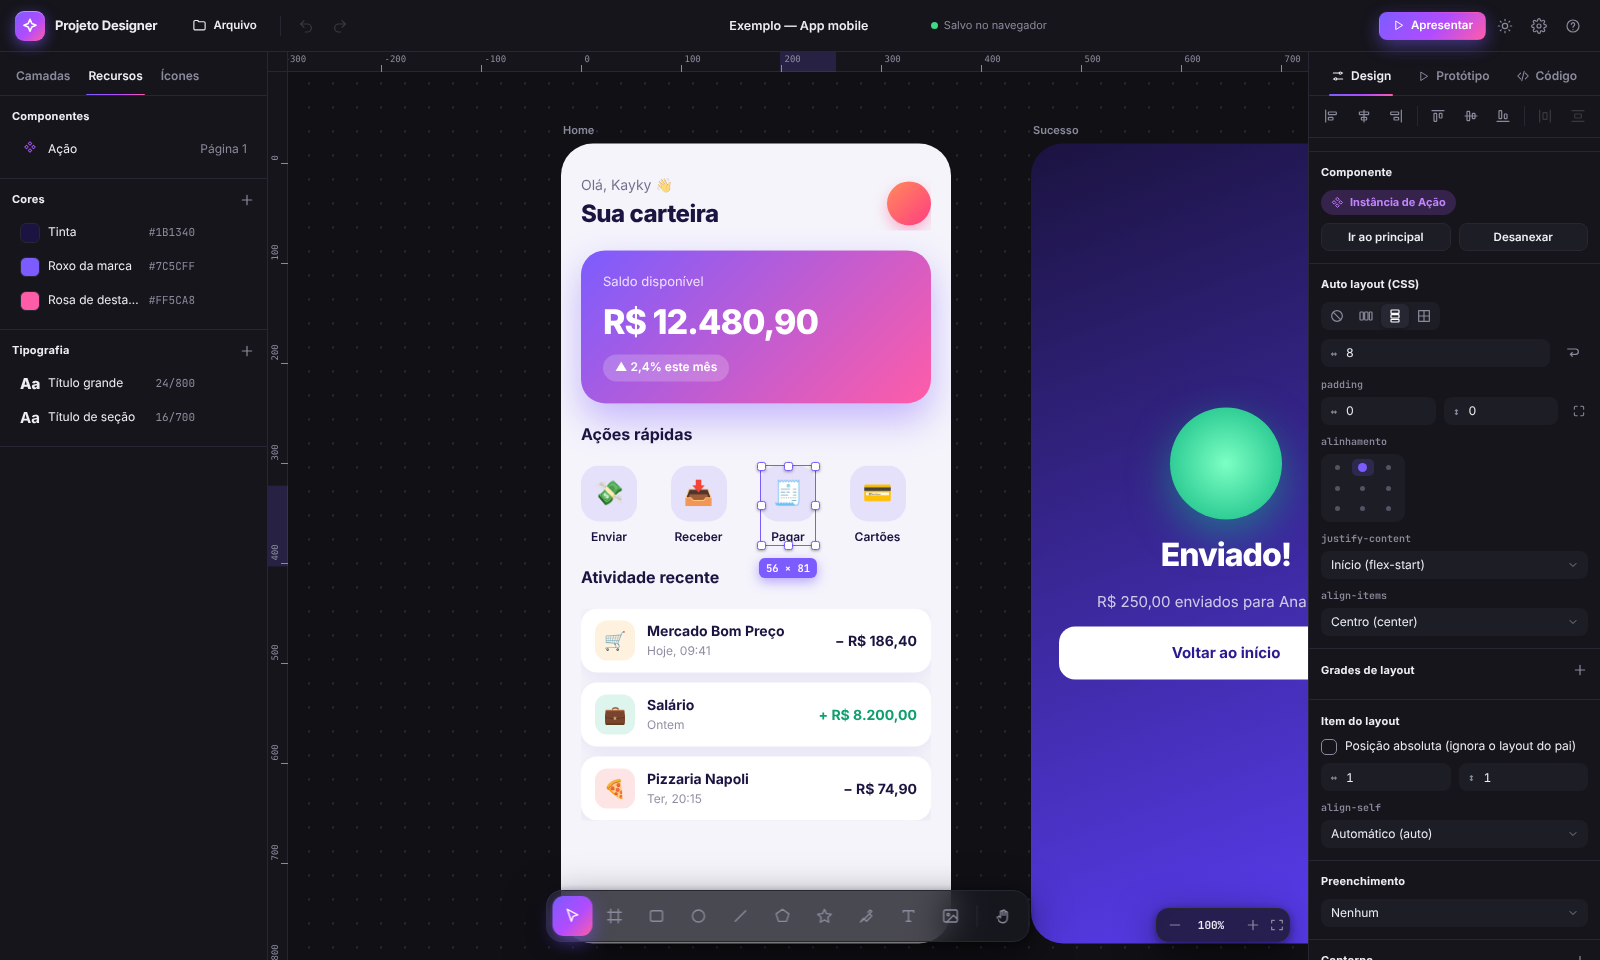
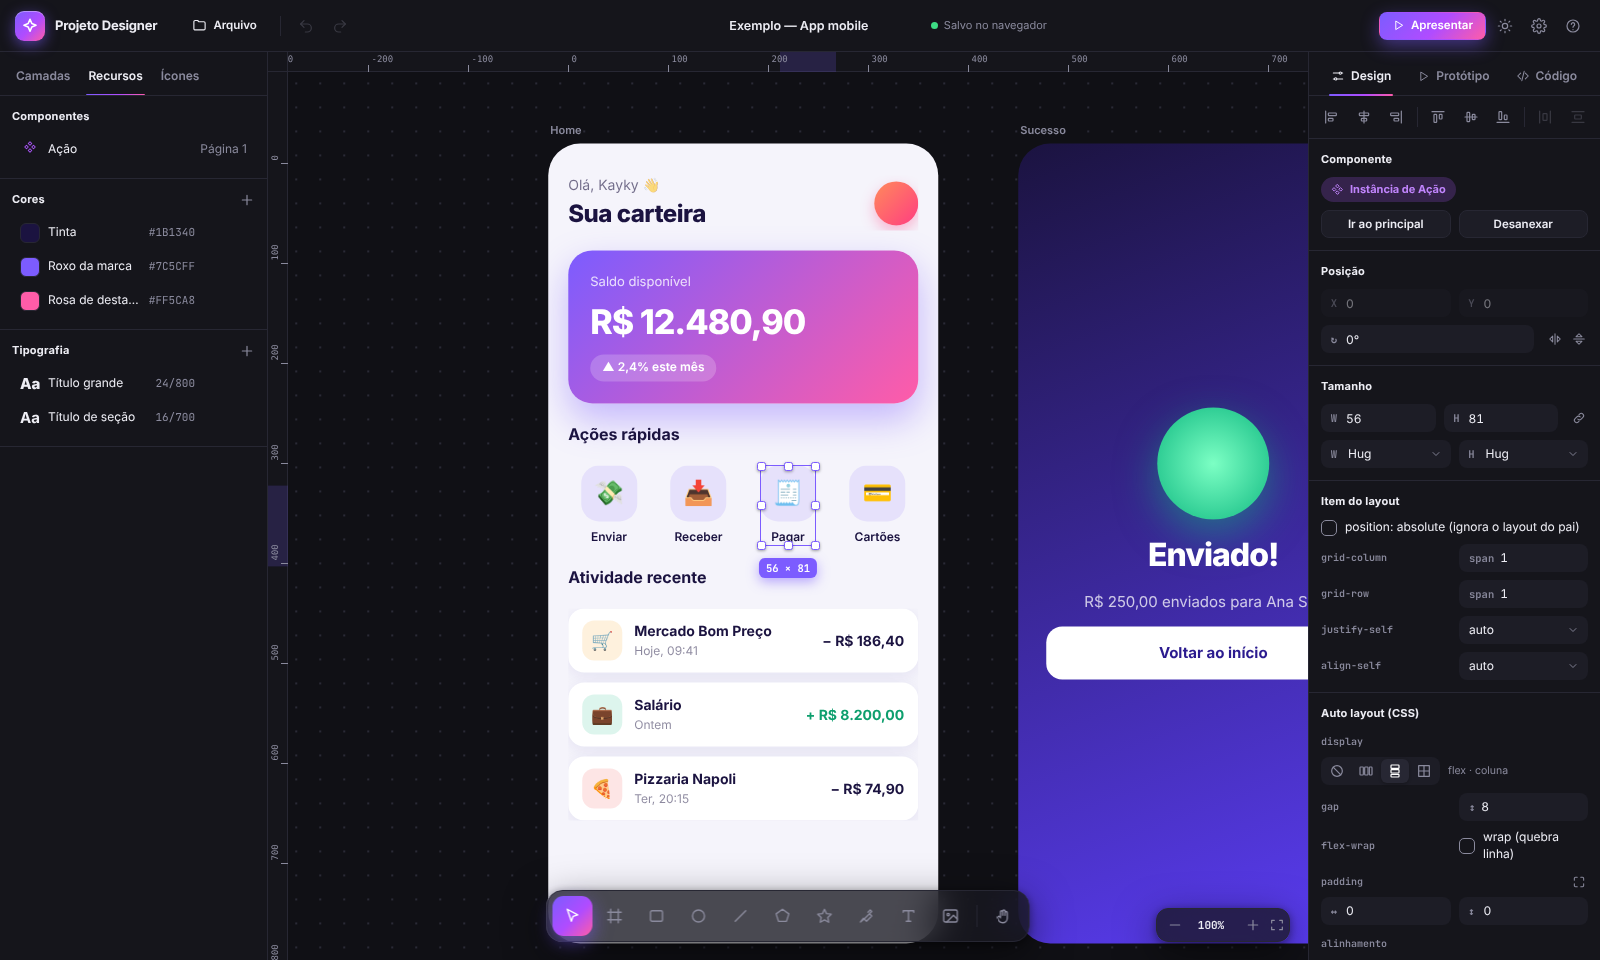
docs: versão 0.9.0, changelog e capturas do painel novo
Claude-Session: https://claude.ai/code/session_01FLfk2rgfTs5rnpqByjyvk3

diff --git a/README.md b/README.md
@@ -51,12 +51,12 @@ Ao abrir o app aparece a **página inicial**: o projeto em que você estava ("co
 ![Página inicial com os projetos](docs/screenshots/15-pagina-inicial.png)
 
 ### Auto layout é flexbox de verdade
-Selecione um frame, escolha o modo (linha, coluna, grid) e use a **matriz 3×3** para alinhar. Os campos são o CSS: `gap`, `padding`, `justify-content`, `align-items`. Camadas filhas escolhem **Fixo**, **Ajustar ao conteúdo** (`hug`) ou **Preencher** (`flex: 1`).
+Selecione um frame, escolha o modo (linha, coluna, grid) e use a **matriz 3×3** para alinhar. Cada controle mostra o nome da propriedade CSS que gera: `display`, `gap`, `flex-wrap`, `padding`, `justify-content`, `align-items` (com os valores de verdade, como `flex-start`, `space-between`, `stretch`). Camadas filhas escolhem **Fixo**, **Hug** (do tamanho do conteúdo) ou **Fill** (`flex: 1`) e podem ter `align-self` próprio.
 
 ![Auto layout com flexbox](docs/screenshots/02-auto-layout-flexbox.png)
 
 ### CSS Grid
-O mesmo painel liga `display: grid`: número de colunas e linhas, `column-gap`/`row-gap`, e cada item pode ocupar várias células (`grid-column: span N`).
+O mesmo painel liga `display: grid`: `grid-template-columns`/`rows` (quantas colunas e linhas), `column-gap`/`row-gap`, `justify-items`/`align-items` (onde cada item fica dentro da célula, incluindo `stretch`) e o botão **Itens preenchem as células**. Cada item pode ocupar várias células (`grid-column: span N`) e ter `justify-self`/`align-self` próprios.
 
 ![CSS Grid](docs/screenshots/03-css-grid.png)
 
@@ -100,7 +100,7 @@ Segure **Alt** e passe o mouse sobre outra camada para ver as **distâncias**. A
 ![Réguas, guias e grades de colunas](docs/screenshots/10-reguas-guias-grades.png)
 
 ### Tema claro/escuro e efeitos
-Gradientes, sombras múltiplas, `filter: blur`, **vidro fosco** (`backdrop-filter`), contorno tracejado, `mix-blend-mode`... tudo com os valores do CSS.
+Gradientes, sombras múltiplas, `filter: blur`, **vidro fosco** (`backdrop-filter`), contorno tracejado, **contorno só de um lado** (`border-bottom`, `border-left`…), `mix-blend-mode`... tudo com os valores do CSS.
 
 ![Tema claro](docs/screenshots/11-tema-claro.png)
 
@@ -180,7 +180,7 @@ Um roteiro de 5 minutos para sentir o app. (Dica: na **página inicial**, o card
 
 1. **Desenhe um frame** — aperte `F` e arraste no canvas. Frames são as "telas".
 2. **Desenhe dentro dele** — `R` retângulo, `E` elipse, `T` texto (clique e digite). O frame sob o cursor vira o pai da camada nova.
-3. **Mova e redimensione** — `V` volta à ferramenta Mover. Arraste a camada (linhas rosa mostram o *snap*), puxe as alças para redimensionar (`Shift` mantém a proporção, `Alt` redimensiona do centro). Passe o mouse fora de um canto para **rotacionar**.
+3. **Mova e redimensione** — `V` volta à ferramenta Mover. Arraste a camada (linhas rosa mostram o *snap*), puxe as alças para redimensionar (`Shift` mantém a proporção, `Alt` redimensiona do centro). Ao redimensionar, a borda **gruda** nas bordas do frame pai e dos vizinhos (linha rosa); `Ctrl` solta. Passe o mouse fora de um canto para **rotacionar**.
 4. **Ligue o auto layout** — selecione o frame e aperte `Shift+A`. O app deduz direção, `gap`, `padding` e alinhamento a partir de onde as camadas estavam (nada "pula" de lugar). Agora arraste uma camada: ela **reordena** dentro do flexbox.
    > **Dica — retângulo não tem "dentro".** Para uma sidebar, um card ou um botão que vai *conter* outras coisas, use um **Frame** (`F`). Se você já desenhou um retângulo de fundo com itens em cima, selecione tudo e aperte `Shift+A`: o retângulo de baixo **vira o frame** (mesma cor e cantos) e os itens entram nele. Um retângulo sozinho + `Shift+A` também vira frame. Um **grupo** + `Shift+A` vira frame.
 5. **Veja o CSS** — abra a aba **Código** no painel direito.
@@ -225,7 +225,7 @@ Um roteiro de 5 minutos para sentir o app. (Dica: na **página inicial**, o card
 | Recurso | Detalhe |
 |---|---|
 | **Flexbox** | `flex-direction` (linha/coluna), `gap`, `padding` (horizontal/vertical ou por lado), `justify-content`, `align-items`, `flex-wrap`. |
-| **CSS Grid** | Colunas, linhas, `column-gap`/`row-gap`; itens podem ocupar várias células (`grid-column: span N`). |
+| **CSS Grid** | Colunas, linhas, `column-gap`/`row-gap`, `justify-items`/`align-items` (com `stretch`); itens podem ocupar várias células (`grid-column: span N`) e ter `justify-self`/`align-self`. |
 | Matriz 3×3 | Define `justify` e `align` de uma vez; troca de papel entre linha e coluna. |
 | Tamanho do item | **Fixo**, **Ajustar ao conteúdo** (`hug`) ou **Preencher** (`flex: 1` / `align-self: stretch`). |
 | Posição absoluta | Marque "Posição absoluta" para um item **ignorar** o auto layout do pai (enfeites, selos). |

diff --git a/CHANGELOG.md b/CHANGELOG.md
@@ -6,6 +6,27 @@ Categorias: **Adicionado** · **Alterado** · **Corrigido** · **Desempenho** ·
 
 ---
 
+## [0.9.0] — 2026-10-07 — CSS de verdade no painel: grid, contorno por lado, snap ao redimensionar
+
+4º relato do teste real: "contorno só de um lado", "CSS Grid não exerce força", "opções de layout esquisitas", "não vejo a barreira do frame ao redimensionar", "painel meio feio".
+
+### Corrigido
+- **CSS Grid não alinhava os itens**: todo item de grid recebia `justify-self: start` / `align-self: start` fixos, e no CSS isso anula o `justify-items` / `align-items` do grid pai. Agora o item só escreve `*-self` quando você escolhe (ou quando o tamanho é "Fill" = `stretch`), então o alinhamento do grid vale de verdade.
+- **Trocar de flex para grid** com `space-between` (que não existe no grid) caía num valor inválido; agora vira `start`. E `stretch` (que não existe em `justify-content`) vira `flex-start` ao voltar para flex.
+
+### Adicionado
+- **Snap ao redimensionar**: a borda que você puxa gruda (até 6 px de tela) nas bordas do frame pai, dos vizinhos e das guias da régua, com a linha rosa. `Ctrl` ou `Alt` desligam. Só bordas: centros não puxam, para não atrapalhar um tamanho livre.
+- **Contorno por lado** em retângulos e frames: todos, só em cima, só embaixo, só esquerda, só direita, cima+baixo, esquerda+direita ou personalizado (espessura por lado). Vira `border-top/right/bottom/left` no CSS e linhas no SVG exportado.
+- **Grid**: opção `stretch` em `justify-items`/`align-items`, `justify-self` por item e o botão "Itens preenchem as células".
+- **Flex**: `stretch` e `baseline` em `align-items`, `stretch` em `align-self`.
+- 19 verificações novas em `tests/e2e/css-polimento.mjs`.
+
+### Alterado
+- **Seção de layout com os nomes do CSS**: cada controle mostra a propriedade que gera (`display`, `gap`, `flex-wrap`, `justify-content`, `align-items`, `grid-template-columns`, `grid-template-rows`, `column-gap`/`row-gap`, `justify-items`…). Os seletores mostram o valor CSS de verdade (`flex-start`, `space-between`…). No item: `position: absolute`, `grid-column`/`grid-row` span, `justify-self`, `align-self`. Escolher `stretch` no item liga o tamanho "Fill" daquele eixo (são a mesma coisa no CSS).
+- **Painel direito reorganizado** na ordem do Figma: a antiga seção "Camada" virou **Posição** (X/Y, constraints, rotação, espelhar), **Tamanho** (W/H, modo W/H fixo/hug/fill com rótulo, tamanhos prontos) e **Aparência** (opacidade, mistura, cantos, cortar conteúdo, máscara). "Criar componente" foi para o fim (componente principal/instância continua no topo). Desfoques com o nome da propriedade (`filter: blur`, `backdrop-filter`).
+
+---
+
 ## [0.8.4] — 2026-10-07 — Arrastar para dentro de auto layout
 
 3º relato do teste real (print): "o retângulo e a bordinha de redimensionar estão ligados, porém separados".

diff --git a/docs/ARQUITETURA.md b/docs/ARQUITETURA.md
@@ -107,13 +107,14 @@ Todo nó tem os campos abaixo; cada tipo acrescenta os seus.
 | `visible`, `locked` | bool | Oculta (`display:none`) / não clicável |
 | `opacity`, `blend` | number, string | `opacity` e `mix-blend-mode` |
 | `fill` | objeto | `type: none\|solid\|linear\|radial\|image` + dados de **todos** os tipos (assim trocar de tipo não perde valores) |
-| `stroke` | objeto\|null | `{ color, opacity, width, style, position }` → `outline` |
+| `stroke` | objeto\|null | `{ color, opacity, width, style, position }` → `outline`. Em rect/frame, `sides: [t, r, b, l]` (espessura por lado; 0 = sem contorno) vira `border-top/right/bottom/left`; `sidesCustom` mantém o modo "personalizado" no painel |
 | `radius` | `[tl,tr,br,bl]` | `border-radius` |
 | `shadows` | lista | `{ x, y, blur, spread, color, opacity, inset }` |
 | `blur`, `bgBlur` | number | `filter: blur` / `backdrop-filter: blur` |
 | `sizeX`, `sizeY` | `fixed\|hug\|fill` | Como a camada calcula o tamanho |
 | `absolute` | bool | Ignora o auto layout do pai |
-| `alignSelf` | string | `align-self` do item |
+| `alignSelf` | string | `align-self` do item (`auto` = herda o `align-items` do pai) |
+| `justifySelf` | string | `justify-self` do item de grid (`auto` = herda o `justify-items` do pai) |
 | `constraints` | `{h, v}` | Reação ao redimensionar o frame pai (sem auto layout) |
 | `colSpan`, `rowSpan` | number | Itens de grid (`span N`) |
 | `flipX`, `flipY`, `lockRatio` | bool | Espelhar; travar proporção |
@@ -190,11 +191,11 @@ O "mundo" é um elemento com `transform: translate(x, y) scale(zoom)`; pan e zoo
 | Situação | CSS |
 |---|---|
 | Raiz da exportação | `position: relative` + `width/height` |
-| Item de **grid** (pai em grid, não absoluto) | `position: relative`, `justify-self`/`align-self`, `grid-column: span N` |
+| Item de **grid** (pai em grid, não absoluto) | `position: relative`, `grid-column: span N`; `justify-self`/`align-self` **só** quando o tamanho é `fill` (`stretch`) ou o item escolheu um alinhamento — senão vale o `justify-items`/`align-items` do grid |
 | Item de **flex** | `position: relative`, `flex: 1 1 0%` (se `fill` no eixo principal) ou `0 0 auto`, `align-self: stretch` (se `fill` no cruzado) |
 | Camada livre | `position: absolute`, `left`, `top`; `hug` na largura vira `max-content` |
 
-Em seguida acrescenta o layout do próprio frame (`display: flex|grid`...), tipografia, fundo, `border-radius`, contorno (`outline` + `outline-offset`), efeitos e `transform`.
+Em seguida acrescenta o layout do próprio frame (`display: flex|grid`...), tipografia, fundo, `border-radius`, contorno (`outline` + `outline-offset`, ou `border-*` quando é por lado), efeitos e `transform`.
 
 ## 7. Gestos do mouse
 
